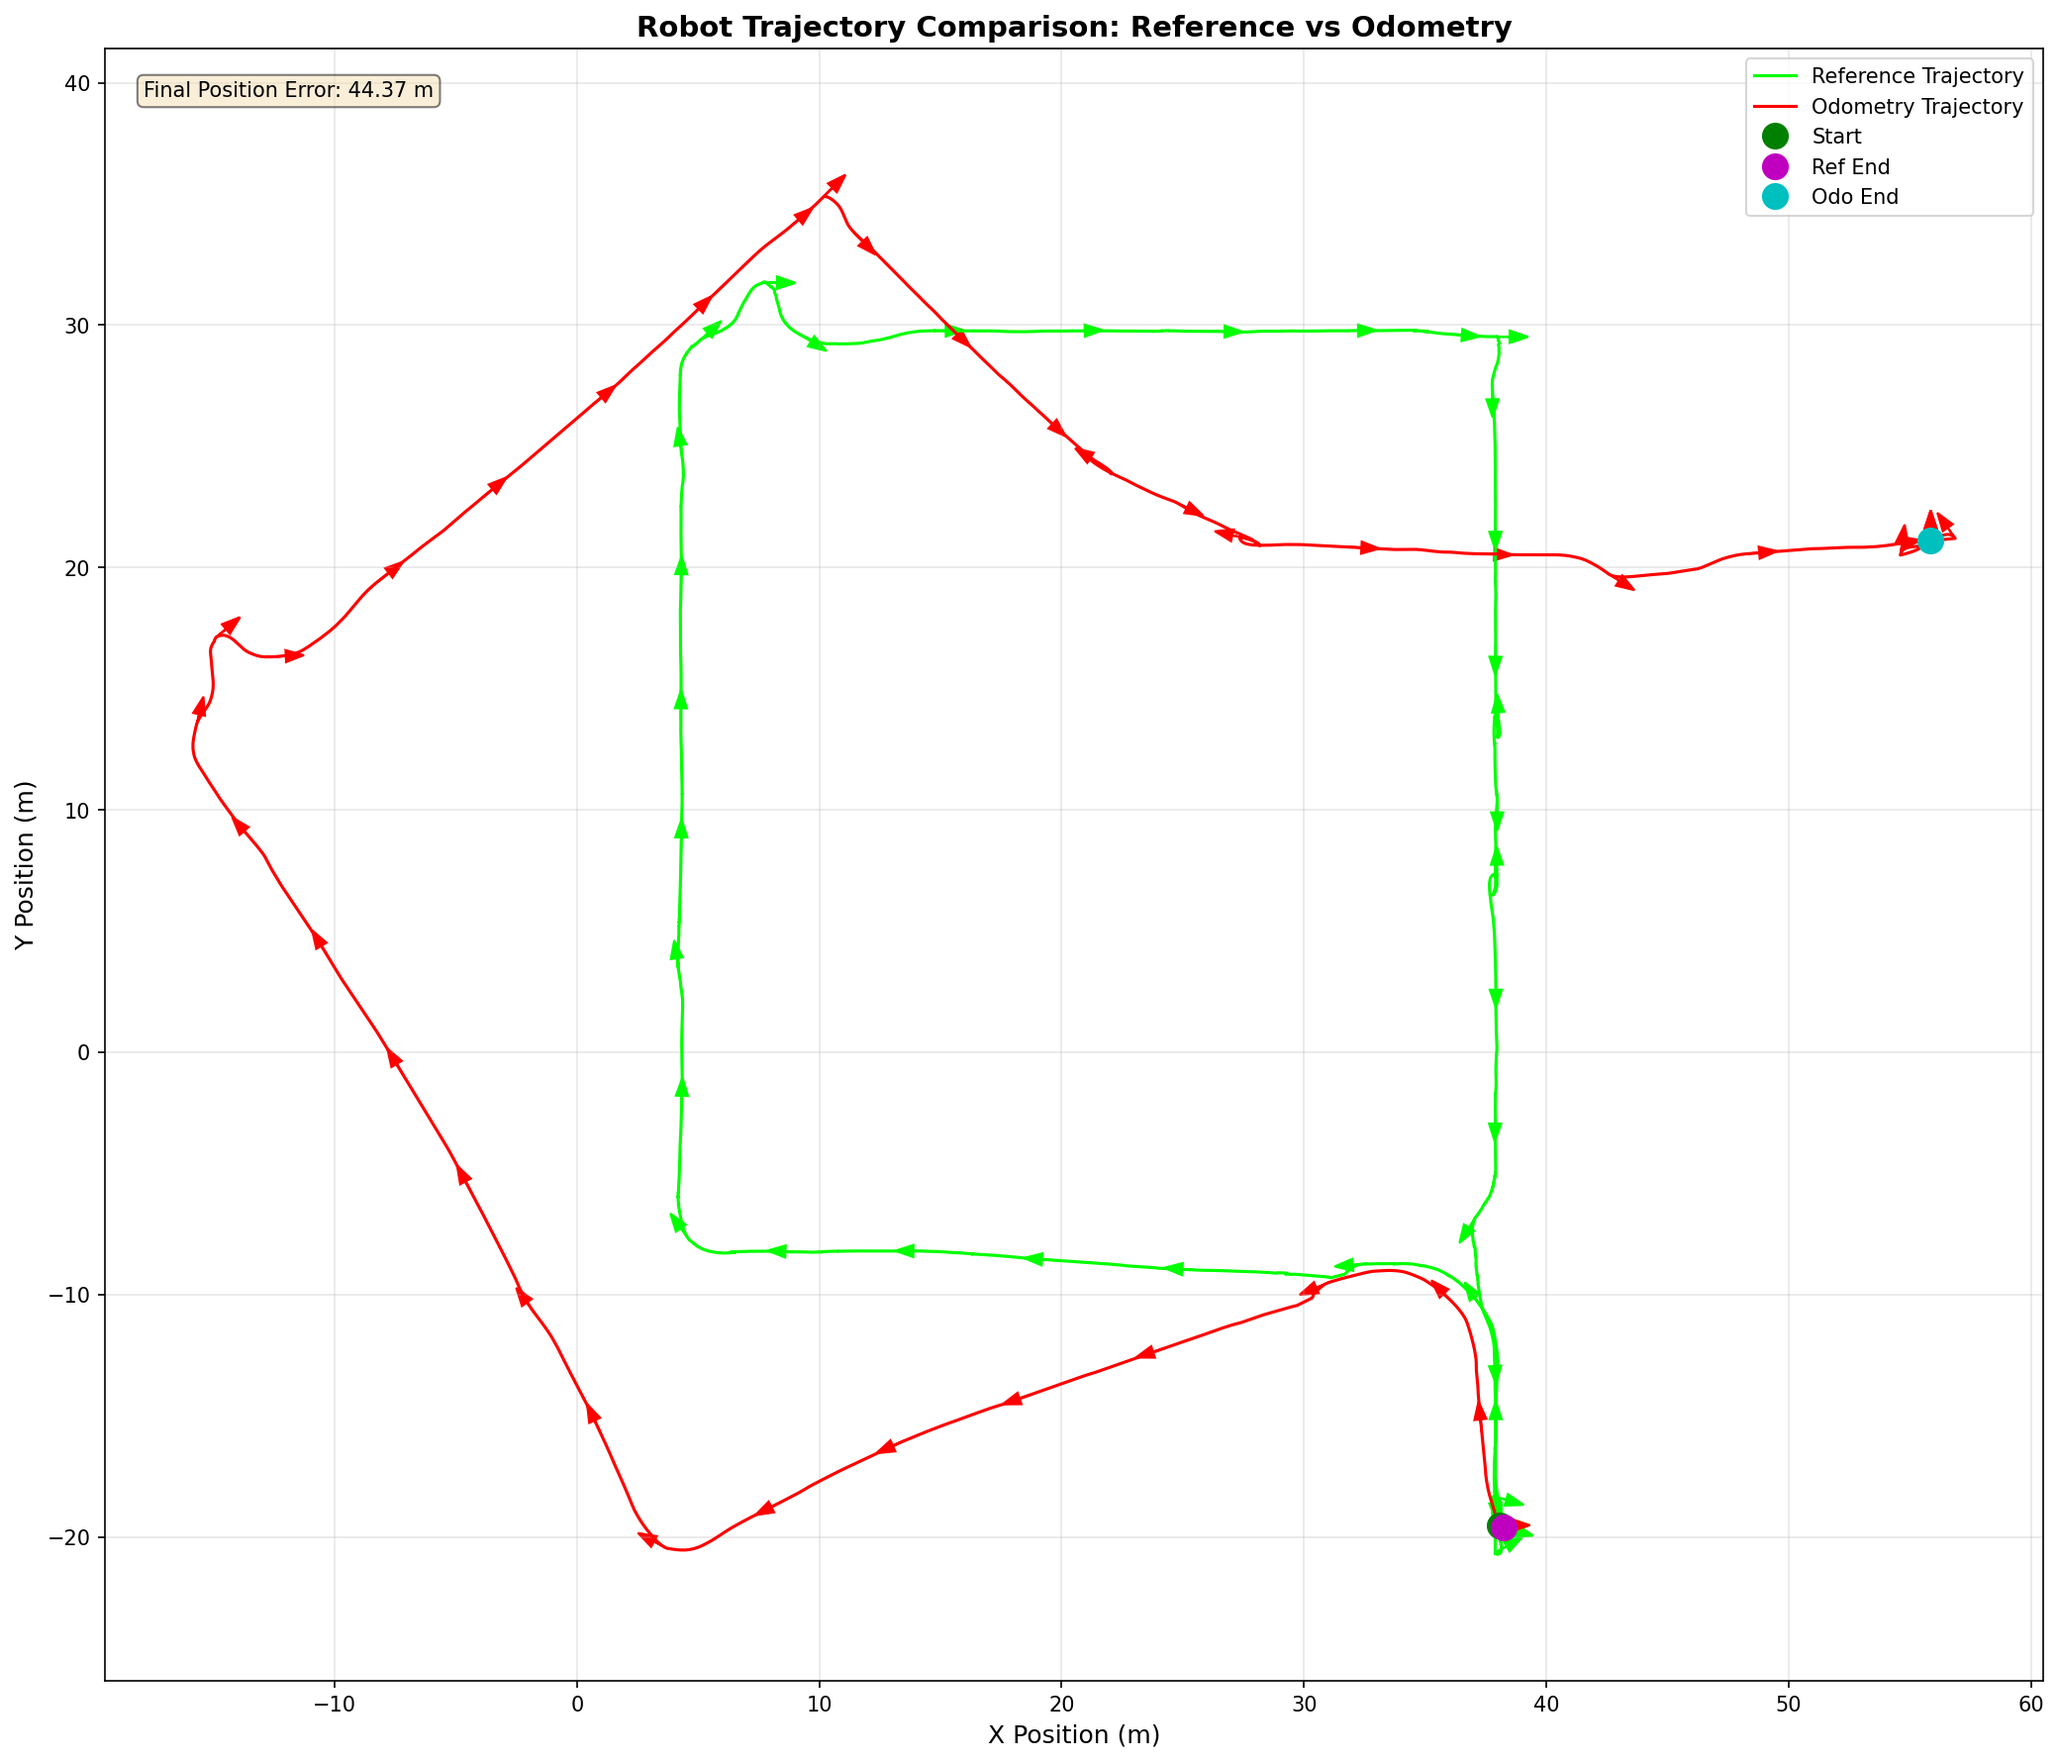
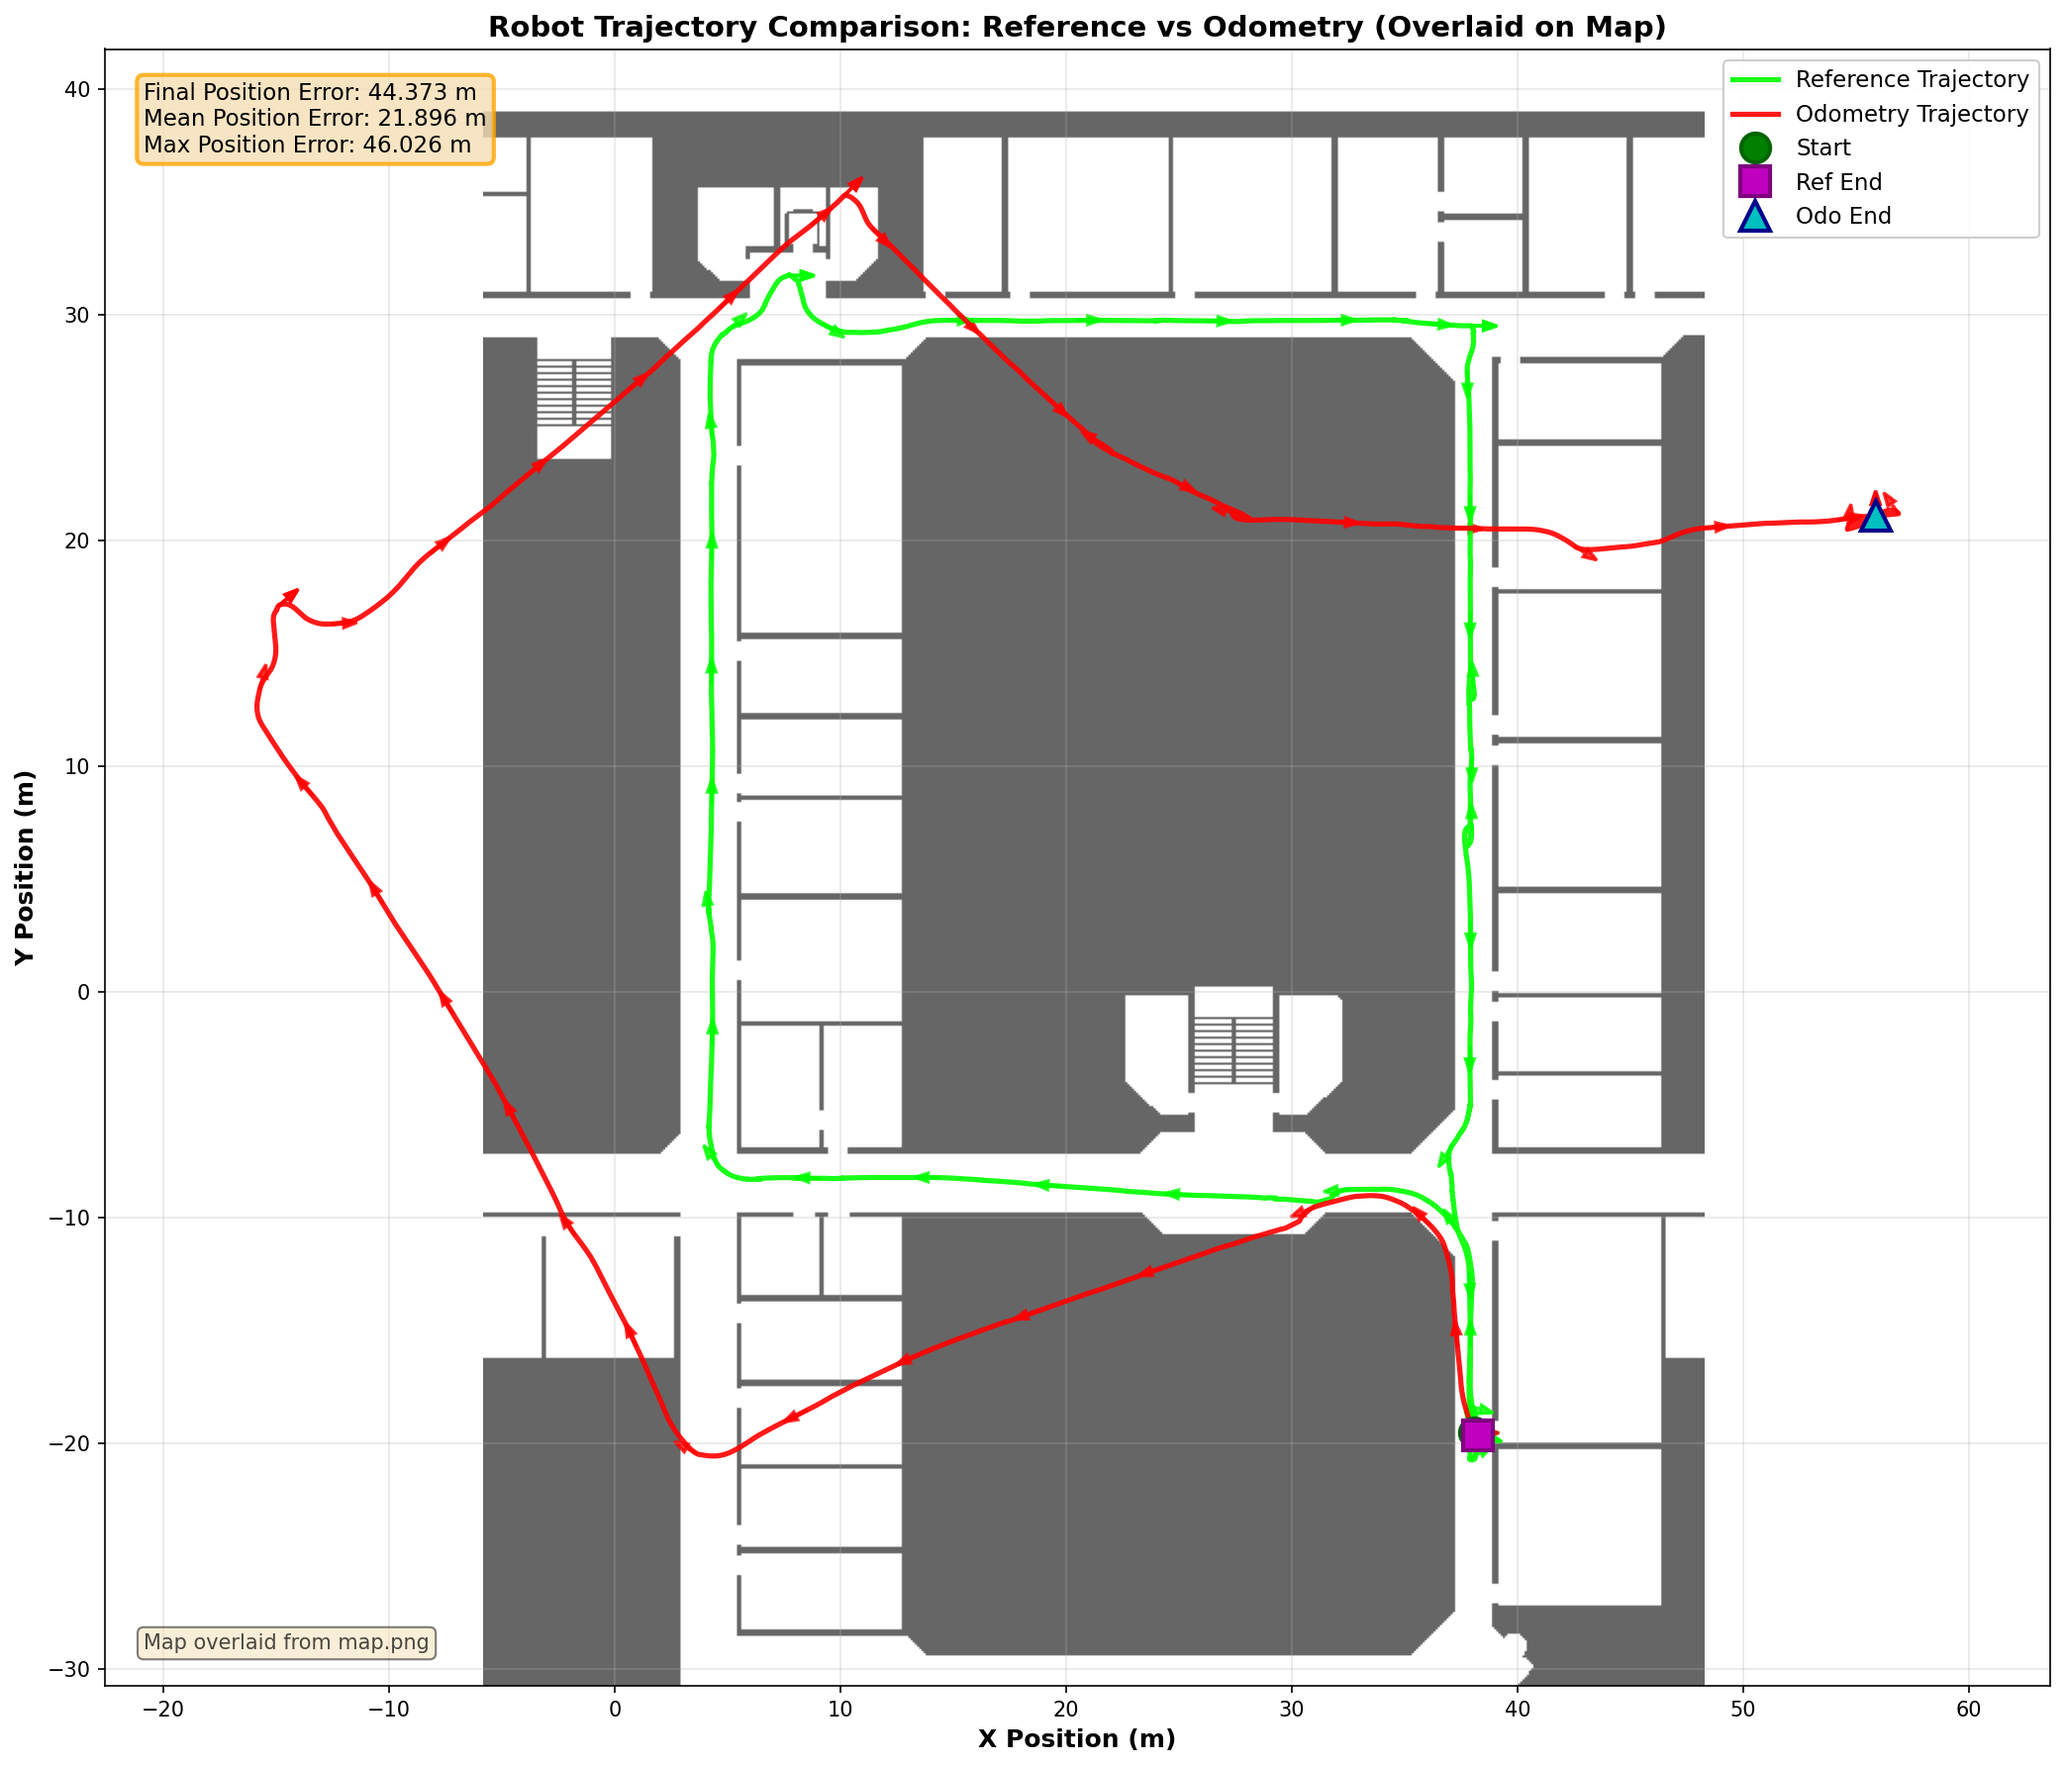
trabalho: add map overlay functionality and error statistics to trajectory plotting

diff --git a/trabalho/show_trajectory.py b/trabalho/show_trajectory.py
@@ -1,6 +1,9 @@
 import numpy as np
 import matplotlib.pyplot as plt
+from matplotlib.image import imread
 from OdometryModel import OdometryModel
+import os
+import json
 
 # Read the reference trajectory CSV file
 ref_data = np.genfromtxt('ref.csv', delimiter=',')
@@ -19,45 +22,88 @@ odo_angle = odo_positions[:, 2]
 # Create figure and axis
 fig, ax = plt.subplots(figsize=(14, 12))
 
+# Load and display the map if available
+map_file = 'map.png'
+if os.path.exists(map_file):
+    try:
+        map_image = imread(map_file)
+        
+        # Display map as background
+        # Map coordinates need to be inferred from the image dimensions
+        # Assuming the map image corresponds to the robot's environment space
+        map_extent = None
+        
+        # Read map extent from image metadata, that needs to be available
+        with open('map_info.json', 'r') as f:
+            map_info = json.load(f)
+
+        xlimits = map_info['xlimits']
+        ylimits = map_info['ylimits']
+        map_extent = (xlimits[0], xlimits[1], ylimits[0], ylimits[1])
+        
+        # Display map with appropriate extent
+        ax.imshow(map_image, extent=map_extent, alpha=0.6, cmap='gray')
+        ax.text(0.02, 0.02, 'Map overlaid from map.png', transform=ax.transAxes,
+                fontsize=10, verticalalignment='bottom', alpha=0.7,
+                bbox=dict(boxstyle='round', facecolor='wheat', alpha=0.5))
+    except Exception as e:
+        print(f"Warning: Could not load map image: {e}")
+        print("Continuing without map background...")
+else:
+    print(f"Map file '{map_file}' not found. Displaying trajectories without map.")
+
 # Plot reference trajectory
-ax.plot(ref_x, ref_y, color='lime', label='Reference Trajectory')
+ax.plot(ref_x, ref_y, color='lime', label='Reference Trajectory', linewidth=2.5, alpha=0.9)
 
 # Plot odometry trajectory
-ax.plot(odo_x, odo_y, color='red', label='Odometry Trajectory')
+ax.plot(odo_x, odo_y, color='red', label='Odometry Trajectory', linewidth=2.5, alpha=0.9)
 
 # Plot orientation arrows at regular intervals for reference
 arrow_interval = max(1, len(ref_x) // 40)
 for i in range(0, len(ref_x), arrow_interval):
     dx = np.cos(ref_angle[i]) * 0.5
     dy = np.sin(ref_angle[i]) * 0.5
-    ax.arrow(ref_x[i], ref_y[i], dx, dy, head_width=0.5, head_length=0.75,
-             fc='lime', ec='lime')
+    ax.arrow(ref_x[i], ref_y[i], dx, dy, head_width=0.4, head_length=0.6,
+             fc='lime', ec='lime', alpha=0.8, linewidth=1.5)
 
 # Plot orientation arrows for odometry
 for i in range(0, len(odo_x), arrow_interval):
     dx = np.cos(odo_angle[i]) * 0.5
     dy = np.sin(odo_angle[i]) * 0.5
-    ax.arrow(odo_x[i], odo_y[i], dx, dy, head_width=0.5, head_length=0.75,
-             fc='red', ec='red')
+    ax.arrow(odo_x[i], odo_y[i], dx, dy, head_width=0.4, head_length=0.6,
+             fc='red', ec='red', alpha=0.8, linewidth=1.5)
 
 # Mark start and end points
-ax.plot(ref_x[0], ref_y[0], 'go', markersize=12, label='Start', zorder=5)
-ax.plot(ref_x[-1], ref_y[-1], 'mo', markersize=12, label='Ref End', zorder=5)
-ax.plot(odo_x[-1], odo_y[-1], 'co', markersize=12, label='Odo End', zorder=5)
+ax.plot(ref_x[0], ref_y[0], 'go', markersize=14, label='Start', zorder=5, markeredgecolor='darkgreen', markeredgewidth=2)
+ax.plot(ref_x[-1], ref_y[-1], 'ms', markersize=14, label='Ref End', zorder=5, markeredgecolor='purple', markeredgewidth=2)
+ax.plot(odo_x[-1], odo_y[-1], 'c^', markersize=14, label='Odo End', zorder=5, markeredgecolor='darkblue', markeredgewidth=2)
 
 # Labels and formatting
-ax.set_xlabel('X Position (m)', fontsize=12)
-ax.set_ylabel('Y Position (m)', fontsize=12)
-ax.set_title('Robot Trajectory Comparison: Reference vs Odometry', fontsize=14, fontweight='bold')
+ax.set_xlabel('X Position (m)', fontsize=12, fontweight='bold')
+ax.set_ylabel('Y Position (m)', fontsize=12, fontweight='bold')
+ax.set_title('Robot Trajectory Comparison: Reference vs Odometry (Overlaid on Map)', fontsize=14, fontweight='bold')
 ax.grid(True, alpha=0.3)
-ax.legend(loc='best', fontsize=10)
+ax.legend(loc='best', fontsize=11, framealpha=0.95)
 ax.axis('equal')
 
 # Add error statistics
 final_error = np.sqrt((ref_x[-1] - odo_x[-1])**2 + (ref_y[-1] - odo_y[-1])**2)
-ax.text(0.02, 0.98, f'Final Position Error: {final_error:.2f} m', 
-        transform=ax.transAxes, verticalalignment='top',
-        bbox=dict(boxstyle='round', facecolor='wheat', alpha=0.5))
+
+# Calculate additional statistics
+position_errors = np.sqrt((ref_x - odo_x)**2 + (ref_y - odo_y)**2)
+mean_error = np.mean(position_errors)
+max_error = np.max(position_errors)
+
+# Create comprehensive statistics box
+stats_text = (
+    f'Final Position Error: {final_error:.3f} m\n'
+    f'Mean Position Error: {mean_error:.3f} m\n'
+    f'Max Position Error: {max_error:.3f} m'
+)
+
+ax.text(0.02, 0.98, stats_text, 
+        transform=ax.transAxes, verticalalignment='top', fontsize=11,
+        bbox=dict(boxstyle='round', facecolor='wheat', alpha=0.8, edgecolor='orange', linewidth=2))
 
 plt.tight_layout()
 plt.savefig('trajectory_comparison.png', dpi=150, bbox_inches='tight')
@@ -67,3 +113,5 @@ print(f"Trajectories plotted and saved to 'trajectory_comparison.png'")
 print(f"Reference trajectory: {len(ref_x)} points")
 print(f"Odometry trajectory: {len(odo_x)} points")
 print(f"Final position error: {final_error:.3f} m")
+print(f"Mean position error: {mean_error:.3f} m")
+print(f"Max position error: {max_error:.3f} m")
